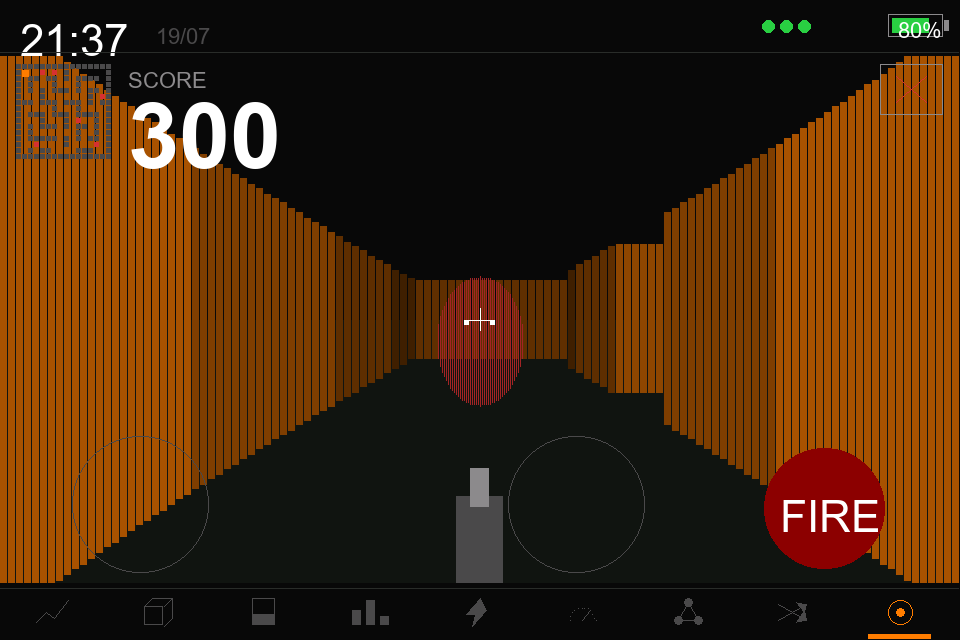
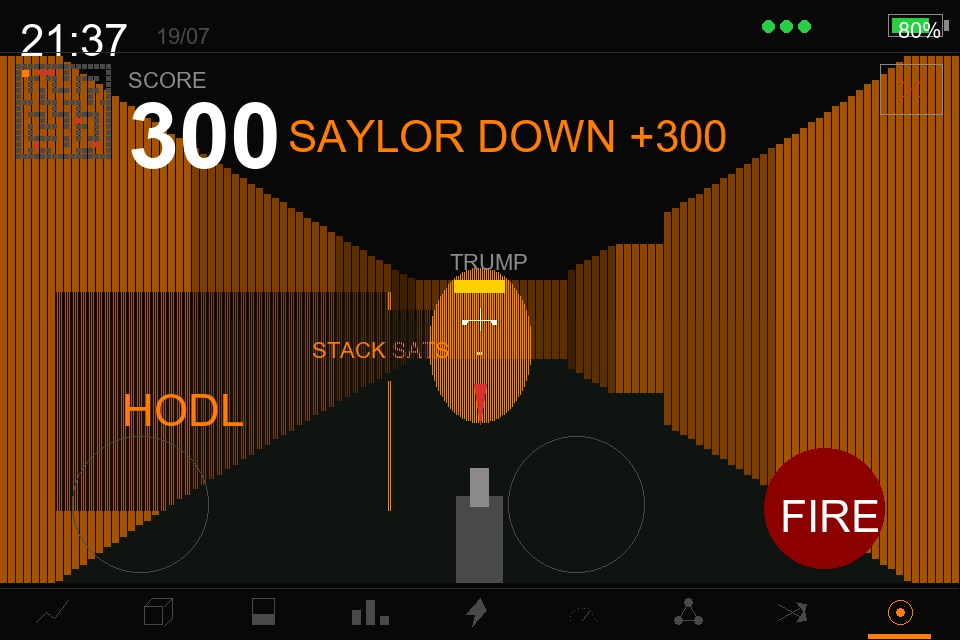
BTC DOOM v2: typed enemies (Saylor/Trump/Lagarde), wall posters, waves, kill popups, voice taunts
- Saylor: tank 3HP, slow, cyan laser eyes + mini-BTC chest (300 pts)
- Trump: 1HP, fast 0.75 cell/s, blond swoosh + red tie (100 pts)
- Lagarde: 2HP, shoots dodgeable 'rate hike' projectiles with LOS check (200 pts)
- 6 z-buffered Bitcoin wall posters (HODL, STACK SATS, BUY THE DIP,
  FIX THE MONEY, NOT YOUR KEYS, SAYLOR WAS RIGHT), text grows when close
- Kill popups + per-enemy jingles + Google TTS taunts ('Saylor down.')
- Waves: clearing all 6 -> next wave +15% speed (cap x1.6)
- Hit flash feedback, enemy names when close, white body flash on hit

Changed region(s): [[0.0625, 0.375, 0.5625, 0.8125], [0.2812, 0.1875, 0.7812, 0.25]]

diff --git a/firmware/tools/mockup_screens.py b/firmware/tools/mockup_screens.py
@@ -576,11 +576,15 @@ DOOM_FOV = math.pi / 3.0
 def shade565(c, pct):
     return (int(c[0] * pct / 100), int(c[1] * pct / 100), int(c[2] * pct / 100))
 
+C_CYAN = (0, 255, 255)
+
 def page_doom():
     g = GFX()
     drawHeader(g)
     dmX, dmY, dmA = 1.5, 1.5, 0.0
-    enemies = [(4.5, 1.5, 1), (6.5, 1.5, 1), (10.5, 9.5, 1), (3.5, 13.5, 1), (13.5, 13.5, 1), (14.5, 5.5, 1)]
+    # ennemis typés : (x, y, type) 0=SAYLOR 1=TRUMP 2=LAGARDE
+    enemies = [(4.0, 1.5, 1), (5.0, 1.5, 2), (6.2, 1.5, 0), (10.5, 9.5, 0), (3.5, 13.5, 1), (13.5, 13.5, 2)]
+    DM_NAME = ["SAYLOR", "TRUMP", "LAGARDE"]
     rh = DOOM_BOT - DOOM_TOP
     lvl_pct = (100, 76, 56, 38)
     dmShade = [[shade565(C_ORANGE, p) for p in lvl_pct],
@@ -613,17 +617,44 @@ def page_doom():
         lvl = 3 if dist > 5 else 2 if dist > 3 else 1 if dist > 1.5 else 0
         y0 = DOOM_TOP + (rh - h) // 2
         g.fillRect(i * 4, max(y0, DOOM_TOP), 4, min(h, rh), dmShade[side][lvl])
-    # démons (tri peintre : loin -> près)
+    # affiches Bitcoin (billboards, comme le firmware)
     def normAng(a):
         while a > math.pi: a -= 2 * math.pi
         while a < -math.pi: a += 2 * math.pi
         return a
+    posters = [(2.5, 1.15, "HODL"), (4.5, 1.15, "STACK SATS"), (6.5, 1.15, "BUY THE DIP")]
+    for (px, py, txt) in posters:
+        dx, dy = px - dmX, py - dmY
+        dist = math.hypot(dx, dy)
+        ang = normAng(math.atan2(dy, dx) - dmA)
+        if abs(ang) > DOOM_FOV / 2 + 0.25:
+            continue
+        perp = dist * math.cos(ang)
+        if perp < 0.15:
+            continue
+        sh = int(rh * 0.42 / perp)
+        if sh < 8:
+            continue
+        sw = sh * 2
+        sx = int((ang + DOOM_FOV / 2) / DOOM_FOV * SCR_W)
+        yb = DOOM_TOP + (rh + int(rh / perp)) // 2
+        y0 = yb - sh - sh // 3
+        for x in range(max(0, sx - sw // 2), min(SCR_W - 1, sx + sw // 2) + 1):
+            if perp >= zbuf[x // 4]:
+                continue
+            bd = (x <= sx - sw // 2 + 1 or x >= sx + sw // 2 - 1)
+            g.drawFastVLine(x, y0, sh, C_ORANGE if bd else C_PANEL)
+        if sh > 30 and perp < zbuf[max(0, min(DOOM_RAYS - 1, sx // 4))]:
+            ts = 2 if sh > 60 else 1
+            g.text(sx - len(txt) * 3 * ts, y0 + (sh - 8 * ts) // 2, txt, ts, C_ORANGE)
+
+    # démons typés (tri peintre : loin -> près)
     es = []
-    for (ex, ey, st) in enemies:
+    for (ex, ey, typ) in enemies:
         dx, dy = ex - dmX, ey - dmY
-        es.append((dx * dx + dy * dy, ex, ey, st))
+        es.append((dx * dx + dy * dy, ex, ey, typ))
     es.sort(key=lambda t: -t[0])
-    for d2, ex, ey, st in es:
+    for d2, ex, ey, typ in es:
         dx, dy = ex - dmX, ey - dmY
         dist = math.hypot(dx, dy)
         ang = normAng(math.atan2(dy, dx) - dmA)
@@ -638,19 +669,31 @@ def page_doom():
         sx = int((ang + DOOM_FOV / 2) / DOOM_FOV * SCR_W)
         yb = DOOM_TOP + (rh + int(rh / perp)) // 2
         cyE = yb - sh // 2
-        lvl = 3 if perp > 5 else 2 if perp > 3 else 1 if perp > 1.5 else 0
         rw = max(2, sh // 3)
+        bodyC = C_ORANGE if typ == 1 else C_BLUE if typ == 2 else C_DGREY
         for x in range(max(0, sx - rw), min(SCR_W - 1, sx + rw) + 1):
             if perp >= zbuf[x // 4]:
                 continue
             u = (x - sx) / rw
             hh = int(sh / 2 * math.sqrt(max(0.0, 1.0 - u * u)))
             if hh > 0:
-                g.drawFastVLine(x, cyE - hh, hh * 2, dmShadeE[lvl])
-        if perp < 4 and st == 1:
+                g.drawFastVLine(x, cyE - hh, hh * 2, bodyC)
+        if perp < 4:
             eyesz = max(2, sh // 20)
-            g.fillRect(sx - sh // 8, cyE - sh // 6, eyesz, eyesz, C_WHITE)
-            g.fillRect(sx + sh // 8 - eyesz, cyE - sh // 6, eyesz, eyesz, C_WHITE)
+            if typ == 0:   # SAYLOR : yeux laser cyan + mini-BTC
+                g.fillRect(sx - sh // 5, cyE - sh // 6, sh // 5, eyesz, C_CYAN)
+                g.fillRect(sx + sh // 10, cyE - sh // 6, sh // 5, eyesz, C_CYAN)
+                g.fillCircle(sx, cyE + sh // 5, eyesz, C_ORANGE)
+            else:
+                g.fillRect(sx - sh // 8, cyE - sh // 6, eyesz, eyesz, C_WHITE)
+                g.fillRect(sx + sh // 8 - eyesz, cyE - sh // 6, eyesz, eyesz, C_WHITE)
+                if typ == 1:   # TRUMP : houppe blonde + cravate rouge
+                    g.fillRect(sx - sh // 6, cyE - sh // 2 + sh // 12, sh // 3, sh // 10, C_YELLOW)
+                    g.fillTriangle(sx - eyesz, cyE + sh // 4, sx + eyesz, cyE + sh // 4, sx, cyE + sh // 2, C_RED)
+                elif typ == 2:   # LAGARDE : col blanc
+                    g.fillRect(sx - eyesz, cyE + sh // 8, eyesz * 2, eyesz, C_WHITE)
+        if perp < 3.5:   # nom au-dessus
+            g.text(sx - len(DM_NAME[typ]) * 3, cyE - sh // 2 - 9, DM_NAME[typ], 1, C_GREY)
     # joysticks (repères fixes)
     g.drawCircle(70, 252, 34, C_DGREY)
     g.drawCircle(288, 252, 34, C_DGREY)
@@ -664,12 +707,13 @@ def page_doom():
         for x in range(16):
             if DM_MAP[y][x]:
                 g.fillRect(8 + x * 3, DOOM_TOP + 4 + y * 3, 3, 3, C_DGREY)
-    for (ex, ey, st) in enemies:
-        if st == 1:
-            g.fillRect(8 + int(ex * 3) - 1, DOOM_TOP + 4 + int(ey * 3) - 1, 3, 3, C_RED)
+    for (ex, ey, typ) in enemies:
+        g.fillRect(8 + int(ex * 3) - 1, DOOM_TOP + 4 + int(ey * 3) - 1, 3, 3, C_RED)
     g.fillRect(8 + int(dmX * 3) - 1, DOOM_TOP + 4 + int(dmY * 3) - 1, 4, 4, C_ORANGE)
     g.text(64, DOOM_TOP + 6, "SCORE", 1, C_GREY)
     g.smooth(64, DOOM_TOP + 14, "300", C_WHITE)
+    # popup kill
+    g.textCenter("SAYLOR DOWN +300", 56, 2, C_ORANGE)
     # FIRE + quitter
     g.fillCircle(356 + 56, 216 + 38, 30, C_RED_D)
     g.text(356 + 56 - 22, 216 + 38 - 8, "FIRE", 2, C_WHITE)

diff --git a/README.md b/README.md
@@ -40,7 +40,7 @@ watchdog, NTP. **Zero credentials in the code.**
 | 📡 **NODE** | Fear & Greed gauge + your Umbrel node status |
 | 🧠 **LOCAL AI** | 100 % on-device: next-block Poisson model + P(1/5/10 min), fee trend regression, weekly fee cycles learned live (NVS) |
 | 📊 **SIGNALS** | 1D vs 1W trend divergence, Bollinger squeeze, technical score, z-score anomaly alarms |
-| 👾 **BTC DOOM** | A Wolfenstein-style raycaster. Demons hunt you. FIRE button. On a clock. |
+| 👾 **BTC DOOM** | Wolfenstein-style raycaster with **dual multi-touch joysticks** (move + strafe / look). Hunt **Saylor** (tank, laser eyes), **Trump** (fast, blond), **Lagarde** (shoots rate hikes), dodge her projectiles, read the wall slogans — HODL, STACK SATS, FIX THE MONEY. Kill popups, voice taunts, waves. |
 
 ### 📸 Screens — faithful mockups, straight from the draw code
 